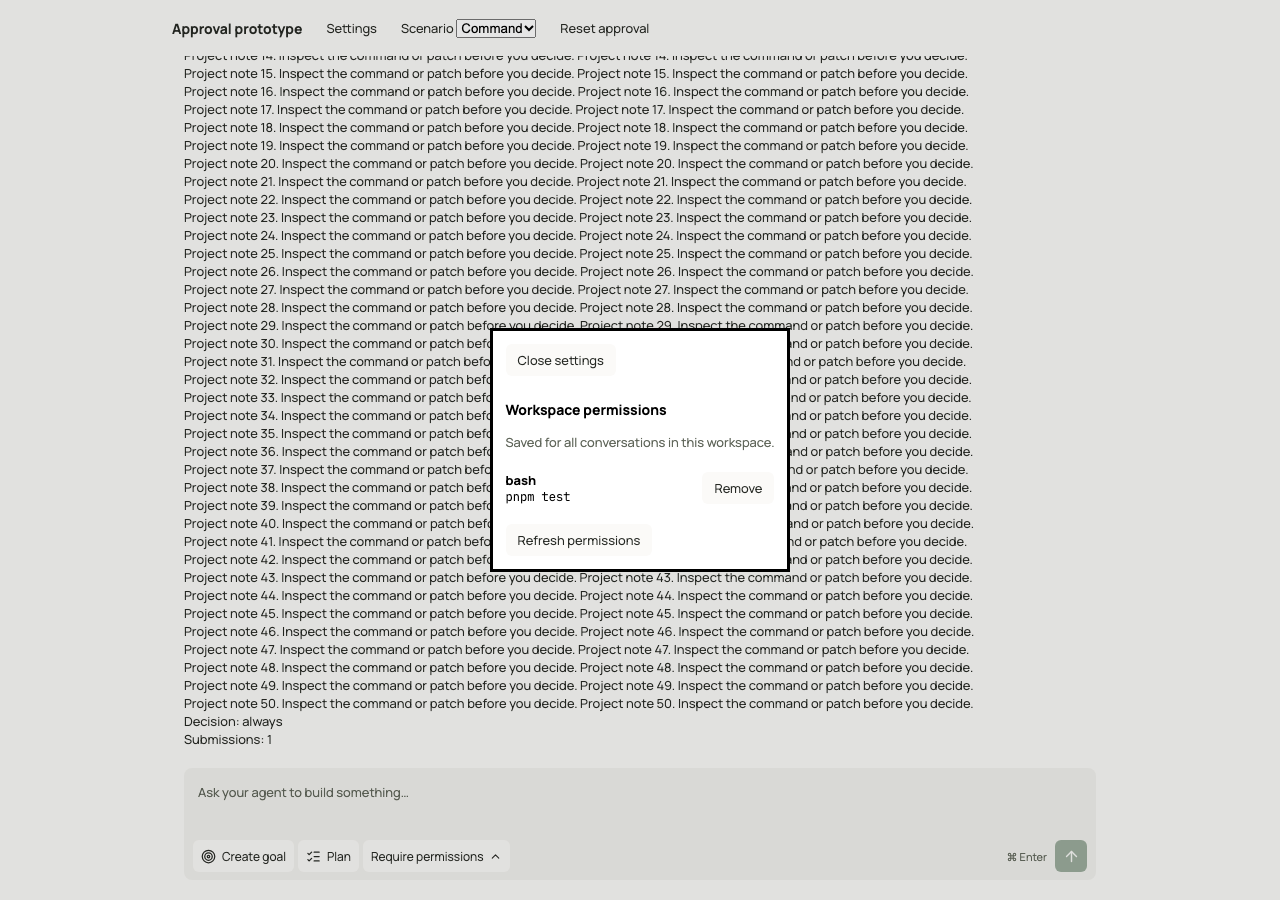
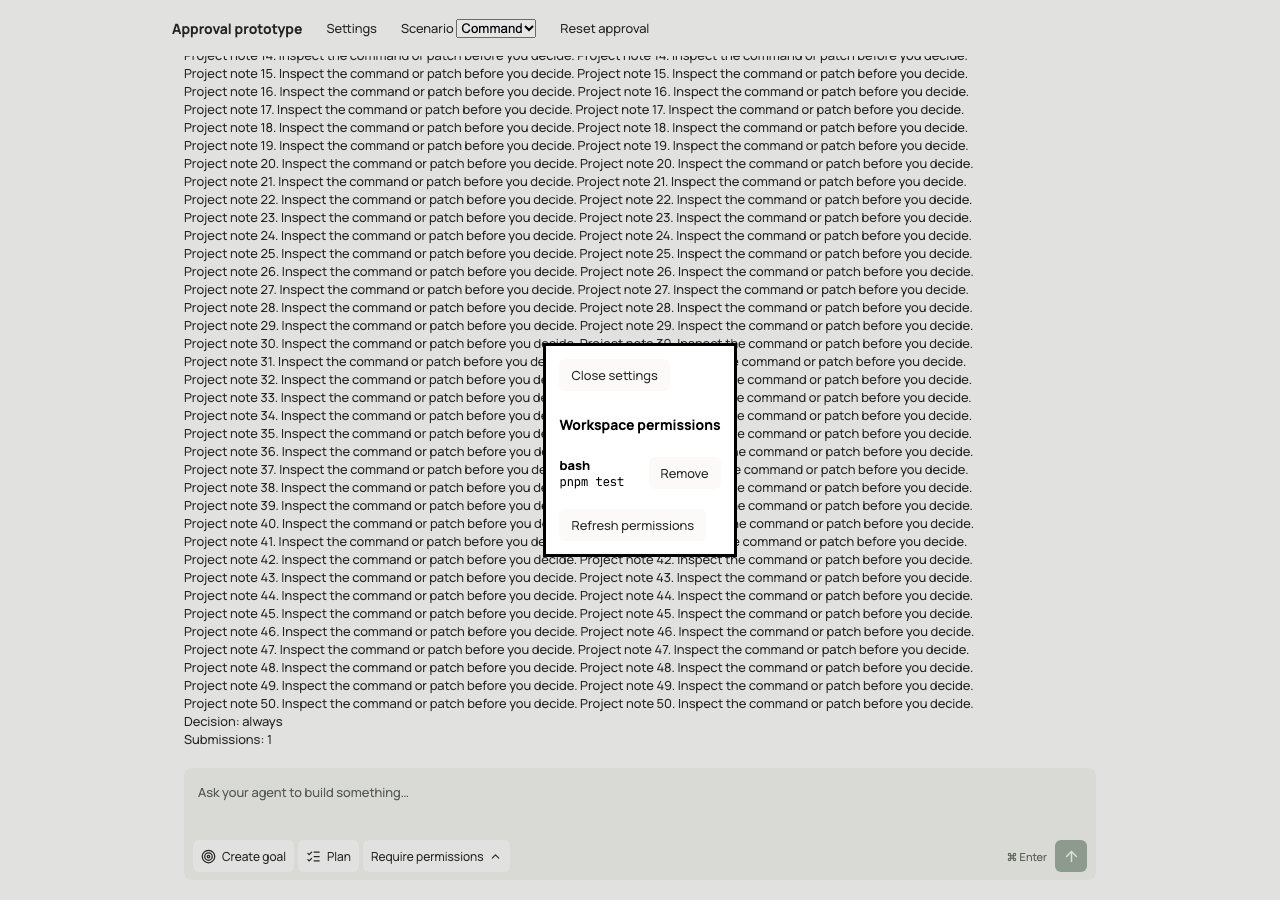
fix(ui): remove redundant control explanations and status flashes

Changed region(s): [[0.375, 0.3422, 0.625, 0.6533]]

diff --git a/web/src/components/approval-settings.tsx b/web/src/components/approval-settings.tsx
@@ -45,7 +45,7 @@ export function ApprovalControls({
         aria-pressed={planOnly}
         aria-busy={busy || undefined}
         disabled={loading || busy}
-        title="Read and propose work without edits or commands. Applies next turn."
+        title="Plan without changing files or running commands"
         onClick={() => onPlanOnly(!planOnly)}
       >
         <ListChecks size={15} aria-hidden="true" />
@@ -58,7 +58,7 @@ export function ApprovalControls({
         <fieldset className="approval-mode-list" disabled={loading || busy}>
           <legend className="sr-only">Permissions</legend>
           {modeChoices.map((choice) => (
-            <label key={choice.value} className="approval-mode-choice">
+            <label key={choice.value} className="approval-mode-choice" title={choice.description}>
               <input
                 type="radio"
                 name={id}
@@ -67,12 +67,10 @@ export function ApprovalControls({
               />
               <span>
                 <strong>{choice.label}</strong>
-                <span className="muted">{choice.description}</span>
               </span>
             </label>
           ))}
         </fieldset>
-        <p className="muted">Applies next turn. Pending approvals stay open.</p>
         {loading && (
           <button type="button" onClick={onRefresh}>
             Retry
@@ -103,7 +101,6 @@ export function SavedPermissions({
   return (
     <section className="workspace-permissions" aria-label="Workspace permissions">
       <h3>Workspace permissions</h3>
-      <p className="muted">Saved for all conversations in this workspace.</p>
       {loading ? (
         <p role="status">Loading permissions…</p>
       ) : rules.length === 0 ? (

diff --git a/e2e/permissions.spec.ts b/e2e/permissions.spec.ts
@@ -9,13 +9,13 @@ for (const theme of ["light", "dark"])
       await page.getByRole("button", { name: "Require permissions" }).click();
       await page.getByRole("radio", { name: /YOLO/ }).check();
       await expect(page.getByRole("button", { name: "YOLO" })).toBeVisible();
-      await expect(page.getByText("Run without permission prompts.")).toBeVisible();
+      await expect(
+        page.getByRole("dialog", { name: "Permissions", exact: true }).locator("p"),
+      ).toHaveCount(0);
       expect((await new AxeBuilder({ page }).analyze()).violations).toEqual([]);
       await page.keyboard.press("Escape");
       await page.getByRole("button", { name: "Always Approve" }).click();
-      await expect(
-        page.getByText("All conversations in this workspace can use this permission."),
-      ).toBeVisible();
+      await expect(page.getByText("Allow in all workspace conversations:")).toBeVisible();
       expect((await new AxeBuilder({ page }).analyze()).violations).toEqual([]);
       await page.getByRole("button", { name: "Approve and Save" }).click();
       await expect(page.getByRole("textbox")).toBeFocused();
@@ -43,6 +43,8 @@ test("permission errors preserve decisions and mode; double clicks submit once",
   await expect(page.getByRole("button", { name: "Require permissions" })).toBeVisible();
   await page.goto(`${fixtureUrl}/permissions.html?slow`);
   await page.getByRole("button", { name: "Approve Once" }).dblclick();
+  await expect(page.getByRole("button", { name: "Approve Once", exact: true })).toBeDisabled();
+  await expect(page.getByText("Submitting…", { exact: true })).toHaveCount(0);
   await expect(page.getByText("Submissions: 1")).toBeVisible();
 });
 

diff --git a/web/src/components/tool-approval.tsx b/web/src/components/tool-approval.tsx
@@ -78,7 +78,7 @@ export function Permission({
     }
   }
   return (
-    <section className="permission" aria-label="Permission request">
+    <section className="permission" aria-label="Permission request" aria-busy={busy || undefined}>
       {call ? (
         <ToolCall
           name={call.function.name}
@@ -92,7 +92,7 @@ export function Permission({
       {error && <p role="alert">{error}</p>}
       {remember && preview && (
         <div className="permission-scope">
-          <p>Save these permissions for this workspace?</p>
+          <p>Allow in all workspace conversations:</p>
           <ul>
             {preview.rules.map((rule) => (
               <li key={JSON.stringify(rule)}>
@@ -101,8 +101,7 @@ export function Permission({
               </li>
             ))}
           </ul>
-          <p>All conversations in this workspace can use this permission.</p>
-          {preview.partial && <p>Some parts cannot be remembered. Those parts will ask again.</p>}
+          {preview.partial && <p>Other parts will still require approval.</p>}
           <button
             ref={saveButton}
             className="primary"
@@ -135,7 +134,7 @@ export function Permission({
               decide("once");
             }}
           >
-            {busy ? "Submitting…" : "Approve Once"}
+            Approve Once
           </button>
           {preview && preview.rules.length > 0 && (
             <button

diff --git a/e2e/live-permissions.spec.ts b/e2e/live-permissions.spec.ts
@@ -18,9 +18,7 @@ test("native approvals, remembered scope, reload, and YOLO cross the real Intell
   await expect(permission).toBeVisible({ timeout: 60000 });
   await expect(permission.locator(".shell-command code")).toHaveText("npm test");
   await permission.getByRole("button", { name: "Always Approve" }).click();
-  await expect(
-    permission.getByText("All conversations in this workspace can use this permission."),
-  ).toBeVisible();
+  await expect(permission.getByText("Allow in all workspace conversations:")).toBeVisible();
   await permission.getByRole("button", { name: "Approve and Save" }).click();
   await expect(permission).toBeHidden({ timeout: 60000 });
   await expect(page.getByRole("button", { name: "Stop run" })).toBeHidden({ timeout: 60000 });

diff --git a/web/src/components/conversation-composer.tsx b/web/src/components/conversation-composer.tsx
@@ -106,8 +106,7 @@ export function ConversationComposer({
       />
       {goalMode && (
         <p className="goal-create-help muted" id={`${id}-help`}>
-          Continues automatically for up to 20 agent turns, with an extra model call after each turn
-          to check completion. Pauses for approvals.
+          Continues automatically for up to 20 turns.
         </p>
       )}
       <div className="composer-toolbar">

diff --git a/docs/VERIFICATION.md b/docs/VERIFICATION.md
@@ -468,3 +468,18 @@ A failing regression first reproduced the wrong order. The final delayed-save te
 No backend behavior changed. This revision did not run another model request.
 A fresh task-first agent review passed keyboard toggling, delayed-save layout stability, permission selection, and mobile recovery.
 The disabled control briefly loses visible focus during saving; the next Tab advances correctly. No task blocker remained.
+
+## Control copy audit
+
+Removed permanent permission timing guidance and repeated workspace explanations. Permission choices now show labels, with explanations on hover.
+The approval scope appears once beside the exact rules. Goal creation states automatic continuation and its 20-turn limit.
+Approve Once keeps its label during submission. A failing regression reproduced the old label flash before this change.
+
+- `pnpm check`: passed lint, design checks, TypeScript, 153 tests, and build; 47 declared skips.
+- `FILE_VIEWER_APP_URL=http://127.0.0.1:4273 FILE_VIEWER_FIXTURE_URL=http://127.0.0.1:4274 pnpm exec playwright test e2e/permissions.spec.ts e2e/composer.spec.ts e2e/composer-discovery.spec.ts e2e/goals.spec.ts e2e/tool-approvals.spec.ts --output .data/control-copy-browser-results`: 28 passed, one opt-in model test skipped.
+- `FILE_VIEWER_APP_URL=http://127.0.0.1:4273 FILE_VIEWER_FIXTURE_URL=http://127.0.0.1:4274 pnpm design:browser`: 28 rendered scans passed.
+- `node --test example/greet.test.js`: one passed.
+- `git diff --check`: passed.
+
+An initial concurrent browser run lost a trace artifact. The rerun used an isolated output directory and passed.
+An independent fixed-data usability review passed command approval, saved scope, Settings discovery, and mobile readability. No new model calls were required.

diff --git a/docs/design/permissions/STUDY.md b/docs/design/permissions/STUDY.md
@@ -34,7 +34,7 @@ Removal waits for active turns and reloads native session plugins. It does not u
 
 The compact composer toolbar orders the controls Create goal, Plan, then Require permissions. Plan has the accessible name Plan mode.
 Saving keeps the labels and layout unchanged. The Plan button exposes its busy state without visible status text.
-The selector contains two choices with short descriptions. Explanations stay inside the selector.
+The selector contains two choice labels. Short explanations appear on hover. It has no permanent timing or pending-approval note.
 Saved rules appear after appearance in Settings. Reopening Settings refreshes the rules.
 
 Interrupt buttons appear in this order: Reject, Approve Once, Always Approve.
@@ -65,3 +65,11 @@ This review is agent-based. The user's direct feedback supplied the human critiq
 ## Verification
 
 See [verification](../../VERIFICATION.md#simpler-permissions-and-separate-planning) for current commands and results.
+
+## Control copy audit
+
+Removed permanent timing guidance from the permission popup and Plan tooltip. Choice explanations moved to hover text.
+Removed the repeated workspace-scope sentence from Settings. The save confirmation now names scope once, beside the exact rules.
+Shortened goal creation help to its automatic behavior and 20-turn limit. Errors and conditional partial-scope information remain.
+Approval buttons retain their labels during submission. Busy state uses disabled controls and accessibility attributes.
+Goal progress, explicit completion state, and recovery actions remain because they describe current work.

diff --git a/DESIGN.md b/DESIGN.md
@@ -306,7 +306,8 @@ Always Approve opens an inline scope preview. Approve and Save and Cancel replac
 
 Order the composer controls Create goal, Plan, then Require permissions / YOLO. Plan is a pressed-state toggle with the accessible name Plan mode.
 Do not insert visible save-status text into this toolbar. Preserve its dimensions during submission.
-Keep descriptions brief and inside the selector. The selected permission preference remains visible during planning.
+The permission selector shows choice labels only. Put short explanations in hover text. Keep timing and persistence rules in documentation.
+The selected permission preference remains visible during planning.
 Saved rules belong in Settings, after appearance. They are not a composer action.
 See the [approval study](docs/design/permissions/STUDY.md) for behavior and review evidence.
 
